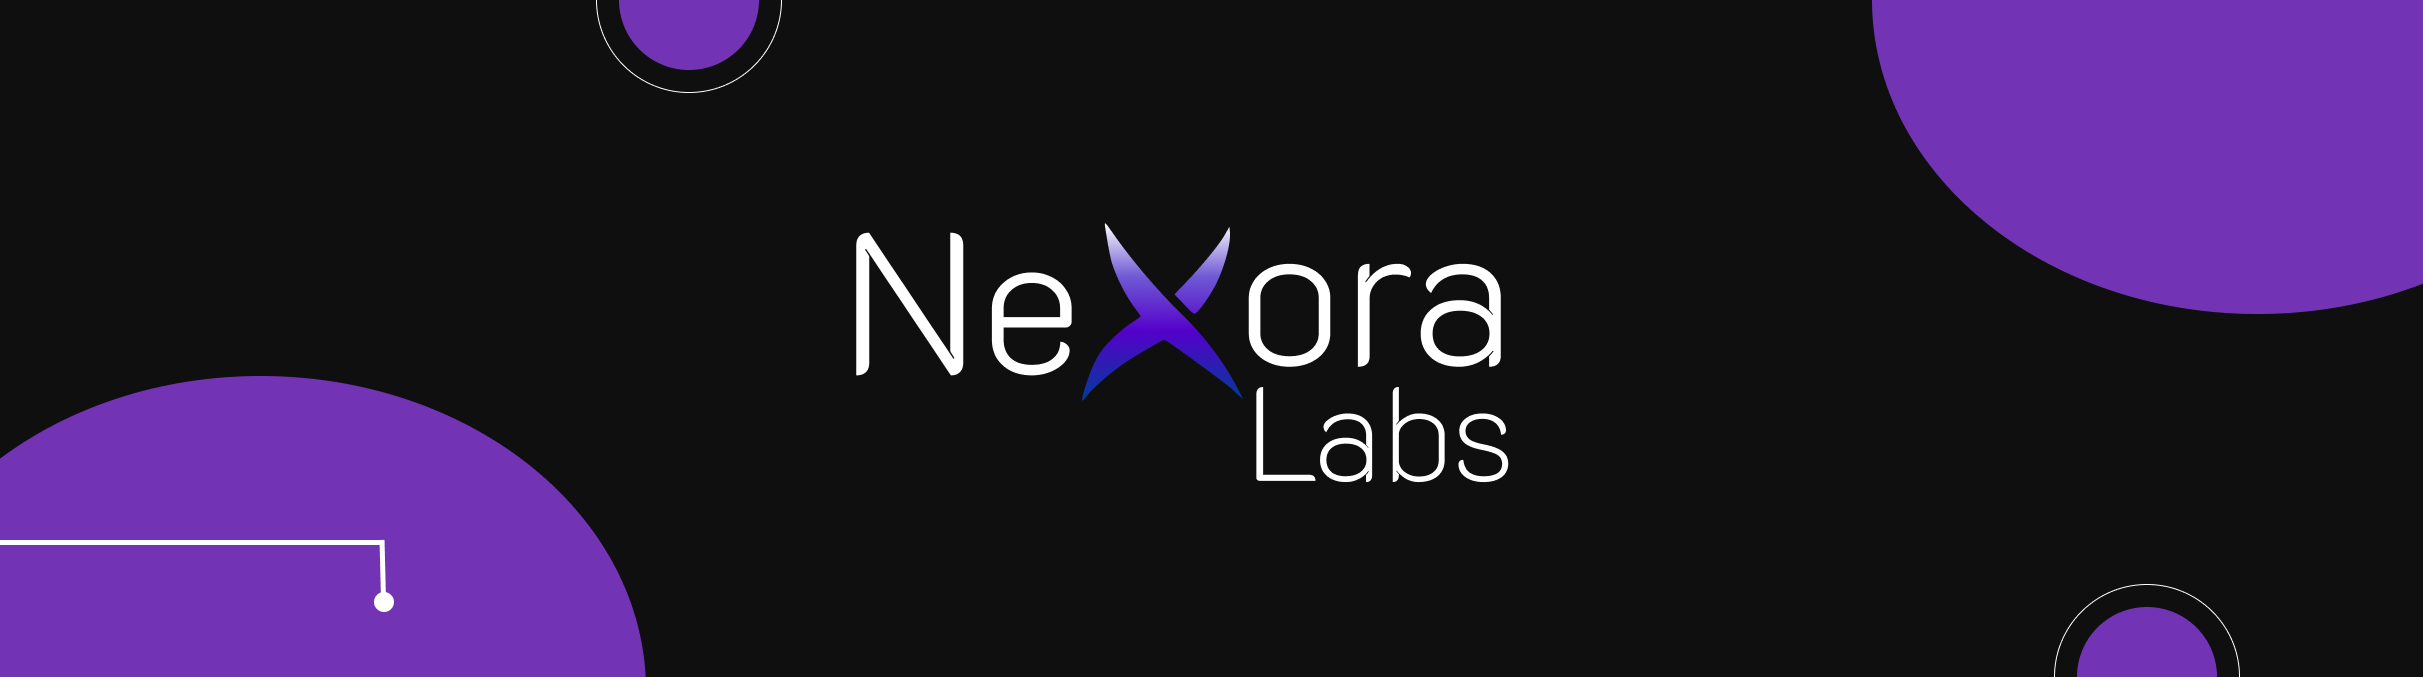
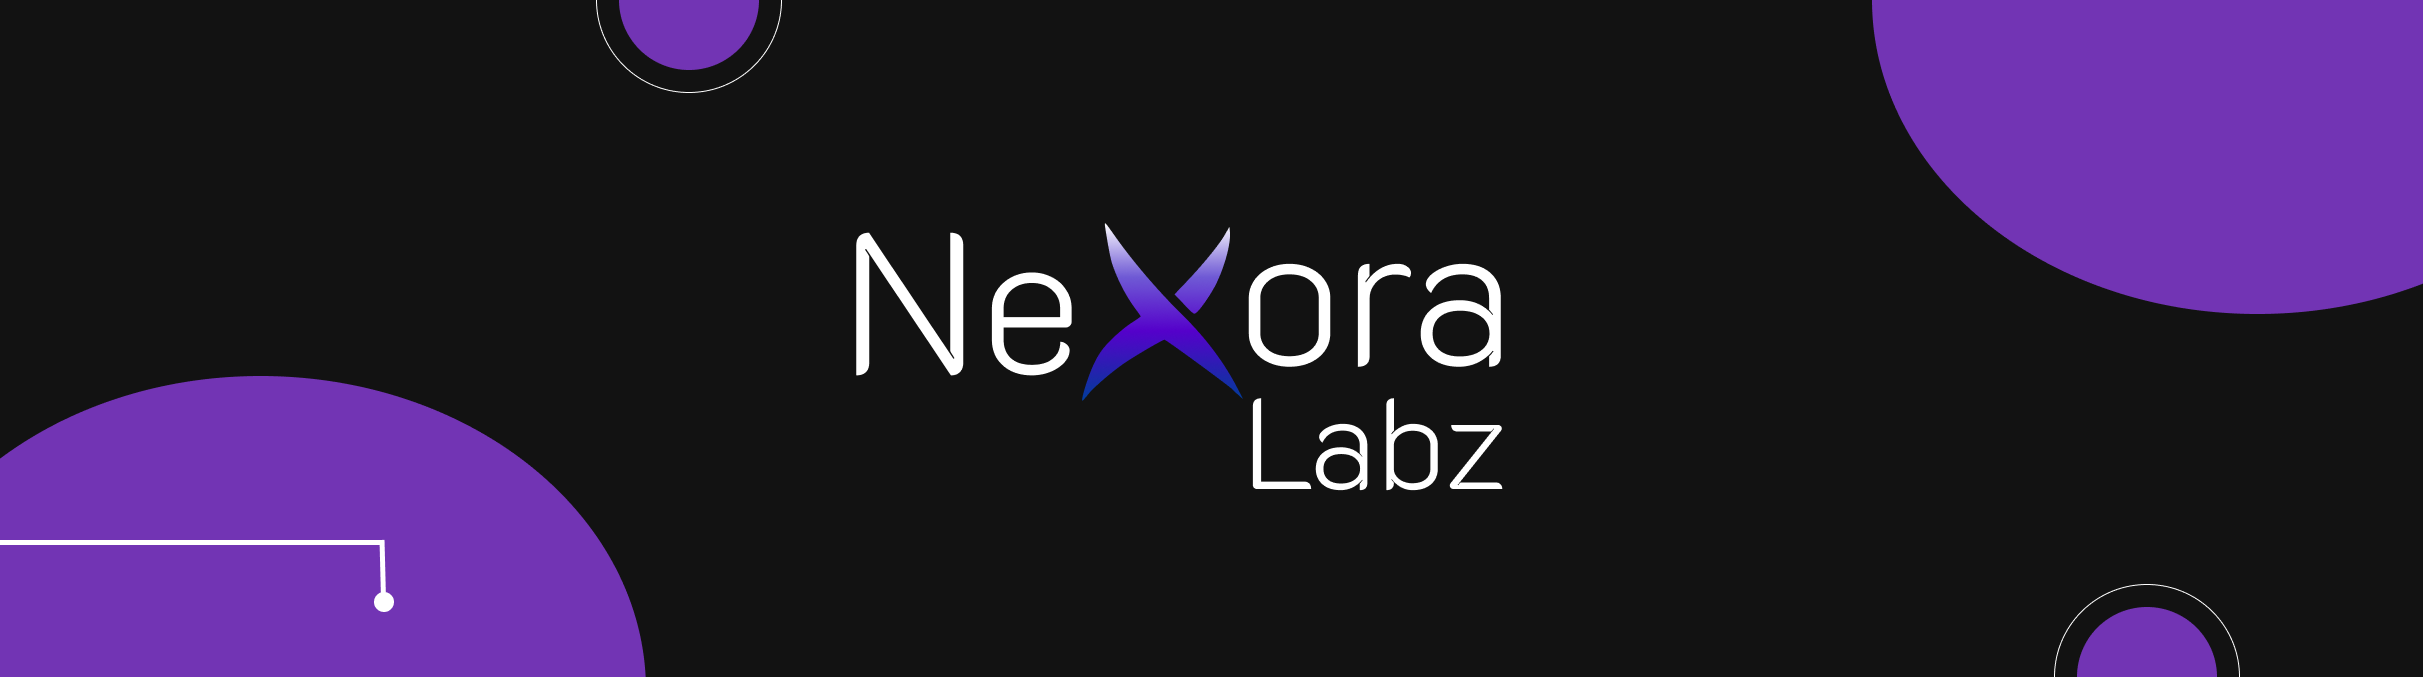
a

Changed region(s): [[0.4953, 0.5894, 0.6191, 0.7445]]

diff --git a/profile/README.md b/profile/README.md
@@ -1,2 +1,2 @@
-# Nexora Labs 💻
+# Nexora Labz 💻
 ![](https://github.com/Nexora-Lab-s/.github/blob/main/hero.png?raw=true)
